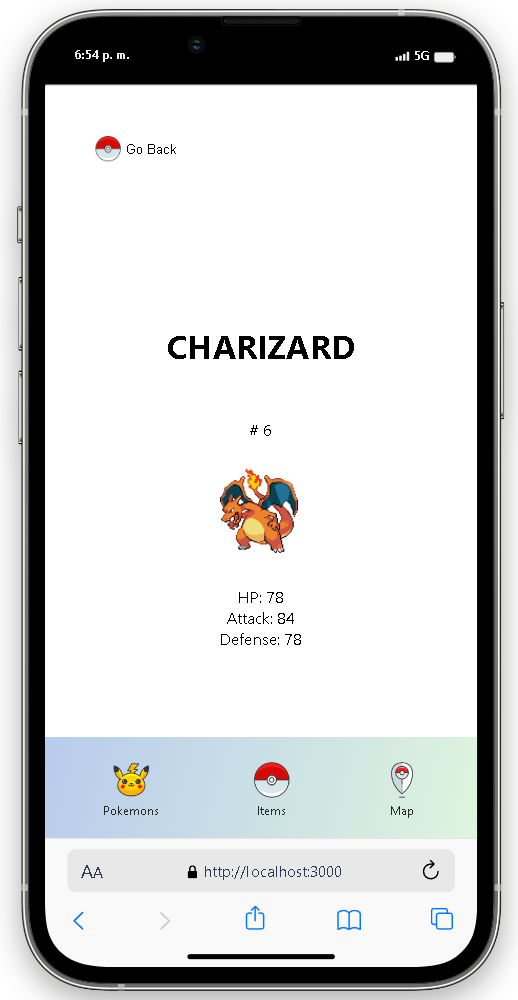
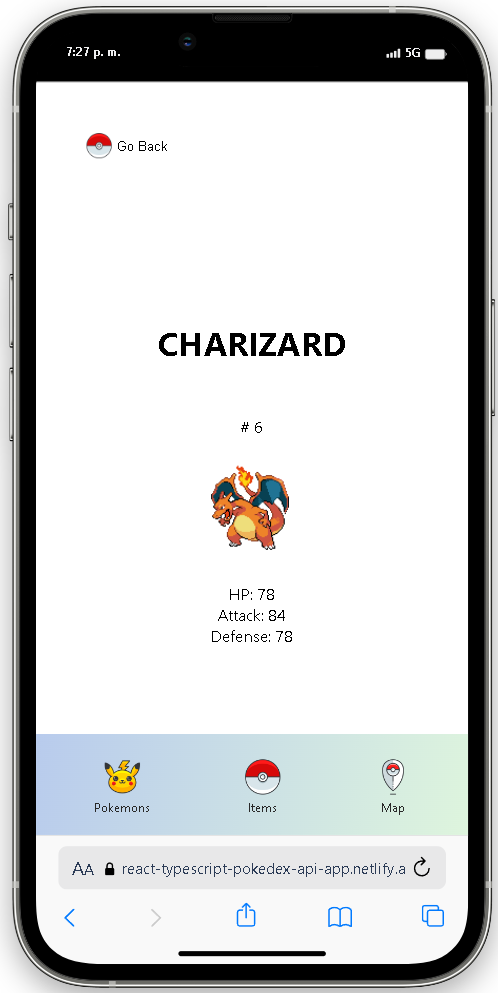
README updated

diff --git a/README.md b/README.md
@@ -7,6 +7,9 @@ Poject created, using:
 - BrowserRouter
 - API Fetch
 
+## URL DEPLOYED PROJECT: 
+https://react-typescript-pokedex-api-app.netlify.app/
+
 ### MAIN SCREEN
 
 ![1_MAIN](./src/assets/1_MAIN.png)
